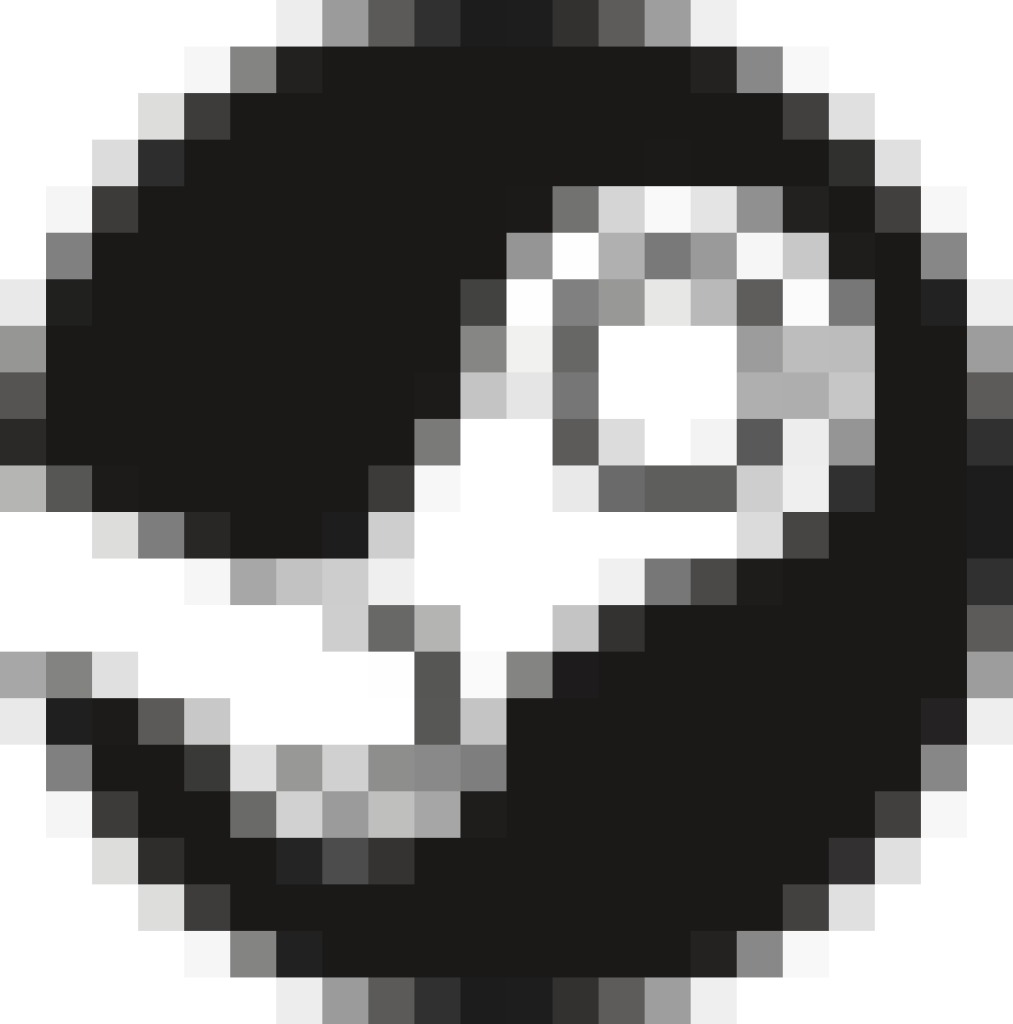
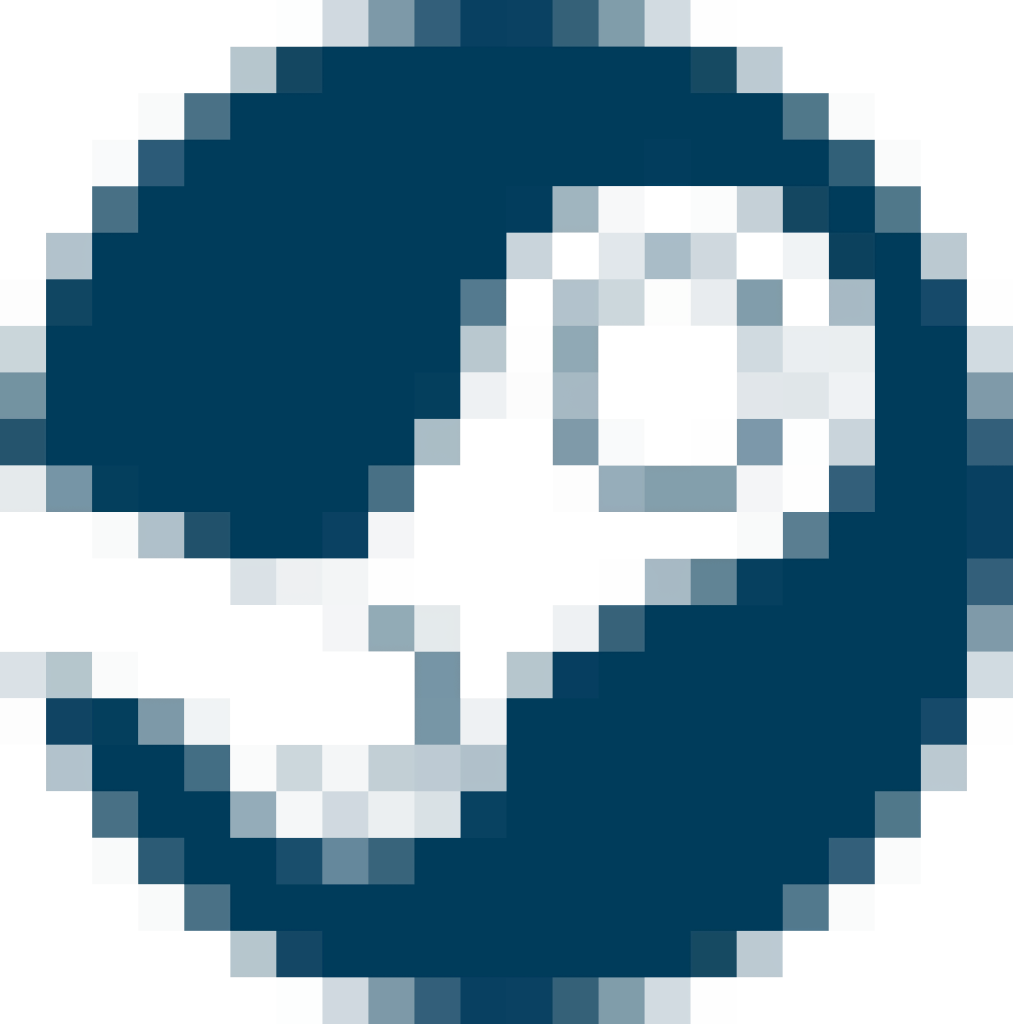
DarkMode fix + cmt

diff --git a/PriceChart/BoxPlot/price_chart_boxplot.js b/PriceChart/BoxPlot/price_chart_boxplot.js
@@ -1,6 +1,6 @@
 document.addEventListener('DOMContentLoaded', function () {
                     var chartConfig1 = {"chart": {"type": "boxplot", "style": {"fontFamily": "MyCustomFont"}}, "title": {"text": "Ph\u00e2n t\u00edch gi\u1ea3m gi\u00e1 t\u1ed1i \u0111a v\u00e0 t\u1ed1i thi\u1ec3u c\u1ee7a c\u00e1c c\u1eeda h\u00e0ng (L\u1ecbch s\u1eed)", "style": {"fontFamily": "MyCustomFont"}}, "xAxis": {"categories": ["GreenManGaming", "Humble Store", "Fanatical", "GOG"], "title": {"text": "C\u1eeda h\u00e0ng"}}, "yAxis": {"title": {"text": "Ph\u1ea7n tr\u0103m gi\u1ea3m gi\u00e1 (%)"}}, "tooltip": {"shared": true, "useHTML": true, "headerFormat": "<em>C\u1eeda h\u00e0ng: {point.key}</em><br/>"}, "series": [{"name": "Ph\u00e2n b\u1ed1 gi\u1ea3m gi\u00e1", "data": [[0, 0, 0, 50, 55], [0, 0, 0, 50, 55], [0, 0, 50, 50, 55], [0, 0, 0, 50, 50]], "tooltip": {"headerFormat": "<em>Ph\u00e2n b\u1ed1 gi\u1ea3m gi\u00e1 c\u1ee7a {point.key}</em><br/>"}}, {"name": "Outliers", "type": "scatter", "data": [], "marker": {"fillColor": "rgba(223, 83, 83, .5)", "lineWidth": 1, "lineColor": "rgba(223, 83, 83, 1)"}, "tooltip": {"pointFormat": "Gi\u00e1 tr\u1ecb ngo\u1ea1i l\u1ec7: {point.y}%<br/>"}}, {"name": "Trung b\u00ecnh l\u00fd thuy\u1ebft", "type": "scatter", "data": [[0, 23.5], [1, 23.571428571428573], [2, 26.2], [3, 25.0]], "marker": {"fillColor": "rgba(0, 100, 0, .5)", "lineWidth": 1, "lineColor": "rgba(0, 100, 0, 1)", "radius": 5}, "tooltip": {"pointFormat": "Trung b\u00ecnh l\u00fd thuy\u1ebft: {point.y:.2f}%<br/>"}}]};
-                    var chartConfig2 = {"chart": {"type": "boxplot", "style": {"fontFamily": "MyCustomFont"}}, "title": {"text": "D\u1ef1 \u0111o\u00e1n gi\u1ea3m gi\u00e1 t\u1ed1i \u0111a v\u00e0 t\u1ed1i thi\u1ec3u c\u1ee7a c\u00e1c c\u1eeda h\u00e0ng (12 th\u00e1ng t\u1edbi)", "style": {"fontFamily": "MyCustomFont"}}, "xAxis": {"categories": ["GreenManGaming", "Humble Store", "Fanatical", "GOG"], "title": {"text": "C\u1eeda h\u00e0ng"}}, "yAxis": {"title": {"text": "Ph\u1ea7n tr\u0103m gi\u1ea3m gi\u00e1 (%)"}}, "tooltip": {"shared": true, "useHTML": true, "headerFormat": "<em>C\u1eeda h\u00e0ng: {point.key}</em><br/>"}, "series": [{"name": "Ph\u00e2n b\u1ed1 gi\u1ea3m gi\u00e1", "data": [[3.34, 10.85, 34.94, 38.65, 46.73], [9.37, 16.91, 27.41, 29.77, 36.43], [3.9, 12.45, 36.9, 41.0, 50.27], [19.22, 25.69, 25.81, 26.01, 38.82]], "tooltip": {"headerFormat": "<em>Ph\u00e2n b\u1ed1 gi\u1ea3m gi\u00e1 c\u1ee7a {point.key}</em><br/>"}}, {"name": "Outliers", "type": "scatter", "data": [[3, 38.82], [3, 19.22], [3, 29.12], [3, 24.12], [3, 26.64]], "marker": {"fillColor": "rgba(223, 83, 83, .5)", "lineWidth": 1, "lineColor": "rgba(223, 83, 83, 1)"}, "tooltip": {"pointFormat": "Gi\u00e1 tr\u1ecb ngo\u1ea1i l\u1ec7: {point.y}%<br/>"}}, {"name": "Trung b\u00ecnh l\u00fd thuy\u1ebft", "type": "scatter", "data": [[0, 24.80666666666667], [1, 23.245833333333334], [2, 26.7975], [3, 26.517500000000002]], "marker": {"fillColor": "rgba(0, 100, 0, .5)", "lineWidth": 1, "lineColor": "rgba(0, 100, 0, 1)", "radius": 5}, "tooltip": {"pointFormat": "Trung b\u00ecnh l\u00fd thuy\u1ebft: {point.y:.2f}%<br/>"}}]};
+                    var chartConfig2 = {"chart": {"type": "boxplot", "style": {"fontFamily": "MyCustomFont"}}, "title": {"text": "D\u1ef1 \u0111o\u00e1n gi\u1ea3m gi\u00e1 t\u1ed1i \u0111a v\u00e0 t\u1ed1i thi\u1ec3u c\u1ee7a c\u00e1c c\u1eeda h\u00e0ng (12 th\u00e1ng t\u1edbi)", "style": {"fontFamily": "MyCustomFont"}}, "xAxis": {"categories": ["GreenManGaming", "Humble Store", "Fanatical", "GOG"], "title": {"text": "C\u1eeda h\u00e0ng"}}, "yAxis": {"title": {"text": "Ph\u1ea7n tr\u0103m gi\u1ea3m gi\u00e1 (%)"}}, "tooltip": {"shared": true, "useHTML": true, "headerFormat": "<em>C\u1eeda h\u00e0ng: {point.key}</em><br/>"}, "series": [{"name": "Ph\u00e2n b\u1ed1 gi\u1ea3m gi\u00e1", "data": [[3.34, 10.85, 34.94, 38.65, 46.73], [9.37, 16.91, 27.41, 29.77, 36.43], [3.9, 12.45, 36.9, 41.0, 50.27], [19.22, 25.69, 25.81, 26.01, 38.82]], "tooltip": {"headerFormat": "<em>Ph\u00e2n b\u1ed1 gi\u1ea3m gi\u00e1 c\u1ee7a {point.key}</em><br/>"}}, {"name": "Outliers", "type": "scatter", "data": [[3, 38.82], [3, 19.22], [3, 29.12], [3, 24.12], [3, 26.64]], "marker": {"fillColor": "rgba(223, 83, 83, .5)", "lineWidth": 1, "lineColor": "rgba(223, 83, 83, 1)"}, "tooltip": {"pointFormat": "Gi\u00e1 tr\u1ecb ngo\u1ea1i l\u1ec7: {point.y}%<br/>"}}, {"name": "Trung b\u00ecnh l\u00fd thuy\u1ebft", "type": "scatter", "data": [[0, 24.80666666666667], [1, 23.245833333333334], [2, 26.7975], [3, 26.5175]], "marker": {"fillColor": "rgba(0, 100, 0, .5)", "lineWidth": 1, "lineColor": "rgba(0, 100, 0, 1)", "radius": 5}, "tooltip": {"pointFormat": "Trung b\u00ecnh l\u00fd thuy\u1ebft: {point.y:.2f}%<br/>"}}]};
 
                     Highcharts.chart('container1', chartConfig1);
                     Highcharts.chart('container2', chartConfig2);

diff --git a/PriceChart/PieChart/price_chart_pie.js b/PriceChart/PieChart/price_chart_pie.js
@@ -1,6 +1,6 @@
 
 document.addEventListener('DOMContentLoaded', function () {
-    var chartConfig1 = {"chart": {"type": "pie", "style": {"fontFamily": "MyCustomFont"}}, "title": {"text": "T\u1ed5ng s\u1ed1 ti\u1ec1n ti\u1ebft ki\u1ec7m t\u1eeb gi\u1ea3m gi\u00e1 theo c\u1eeda h\u00e0ng (L\u1ecbch s\u1eed)", "style": {"fontFamily": "MyCustomFont"}}, "tooltip": {"pointFormat": "<b>{point.percentage:.1f}%</b> c\u1ee7a t\u1ed5ng s\u1ed1 ti\u1ec1n ti\u1ebft ki\u1ec7m"}, "plotOptions": {"pie": {"allowPointSelect": true, "cursor": "pointer", "dataLabels": {"enabled": true, "format": "<b>{point.name}</b>: {point.percentage:.1f} %"}, "showInLegend": true}}, "legend": {"align": "center", "verticalAlign": "bottom", "layout": "horizontal", "itemDistance": 50, "padding": 20, "itemStyle": {"fontSize": "14px", "fontWeight": "bold", "color": "black"}}, "series": [{"name": "T\u1ed5ng s\u1ed1 ti\u1ec1n ti\u1ebft ki\u1ec7m", "colorByPoint": true, "data": [{"name": "GreenManGaming", "y": 423.0}, {"name": "Humble Store", "y": 297.0}, {"name": "Fanatical", "y": 393.0}, {"name": "GOG", "y": 330.00000000000006}]}]};
+    var chartConfig1 = {"chart": {"type": "pie", "style": {"fontFamily": "MyCustomFont"}}, "title": {"text": "T\u1ed5ng s\u1ed1 ti\u1ec1n ti\u1ebft ki\u1ec7m t\u1eeb gi\u1ea3m gi\u00e1 theo c\u1eeda h\u00e0ng (L\u1ecbch s\u1eed)", "style": {"fontFamily": "MyCustomFont"}}, "tooltip": {"pointFormat": "<b>{point.percentage:.1f}%</b> c\u1ee7a t\u1ed5ng s\u1ed1 ti\u1ec1n ti\u1ebft ki\u1ec7m"}, "plotOptions": {"pie": {"allowPointSelect": true, "cursor": "pointer", "dataLabels": {"enabled": true, "format": "<b>{point.name}</b>: {point.percentage:.1f} %"}, "showInLegend": true}}, "legend": {"align": "center", "verticalAlign": "bottom", "layout": "horizontal", "itemDistance": 50, "padding": 20, "itemStyle": {"fontSize": "14px", "fontWeight": "bold", "color": "black"}}, "series": [{"name": "T\u1ed5ng s\u1ed1 ti\u1ec1n ti\u1ebft ki\u1ec7m", "colorByPoint": true, "data": [{"name": "GreenManGaming", "y": 423.00000000000006}, {"name": "Humble Store", "y": 297.0}, {"name": "Fanatical", "y": 393.00000000000006}, {"name": "GOG", "y": 330.00000000000006}]}]};
     var chartConfig2 = {"chart": {"type": "pie", "style": {"fontFamily": "MyCustomFont"}}, "title": {"text": "D\u1ef1 \u0111o\u00e1n t\u1ed5ng s\u1ed1 ti\u1ec1n ti\u1ebft ki\u1ec7m t\u1eeb gi\u1ea3m gi\u00e1 theo c\u1eeda h\u00e0ng (4 th\u00e1ng ti\u1ebfp theo)", "style": {"fontFamily": "MyCustomFont"}}, "tooltip": {"pointFormat": "<b>{point.percentage:.1f}%</b> c\u1ee7a t\u1ed5ng s\u1ed1 ti\u1ec1n ti\u1ebft ki\u1ec7m"}, "plotOptions": {"pie": {"allowPointSelect": true, "cursor": "pointer", "dataLabels": {"enabled": true, "format": "<b>{point.name}</b>: {point.percentage:.1f} %"}, "showInLegend": true}}, "legend": {"align": "center", "verticalAlign": "bottom", "layout": "horizontal", "itemDistance": 50, "padding": 20, "itemStyle": {"fontSize": "14px", "fontWeight": "bold", "color": "black"}}, "series": [{"name": "T\u1ed5ng s\u1ed1 ti\u1ec1n ti\u1ebft ki\u1ec7m", "colorByPoint": true, "data": [{"name": "GreenManGaming", "y": 151.56}, {"name": "Humble Store", "y": 131.98}, {"name": "Fanatical", "y": 143.62}, {"name": "GOG", "y": 169.29}]}]};
 
     Highcharts.chart('container1', chartConfig1);

diff --git a/playersCharts/playersCount.js b/playersCharts/playersCount.js
@@ -17,9 +17,9 @@ async function loadDataset() {
 }
 
 function unixToDateString(unixTimestamp) {
-    const date = new Date(unixTimestamp * 1000); // Multiply by 1000 to convert seconds to milliseconds
+    const date = new Date(unixTimestamp * 1000); // convert seconds to milliseconds
     const year = date.getFullYear();
-    const month = String(date.getMonth() + 1).padStart(2, '0'); // Months are zero-indexed
+    const month = String(date.getMonth() + 1).padStart(2, '0'); 
     const day = String(date.getDate()).padStart(2, '0');
     const hours = String(date.getHours()).padStart(2, '0');
     const minutes = String(date.getMinutes()).padStart(2, '0');

diff --git a/playersCharts/playersCount.css b/playersCharts/playersCount.css
@@ -1,7 +1,7 @@
 
 @font-face {
     font-family: "MyCustomFont";
-    src: url("../FVF_Fernando_08.ttf") format("truetype"); /* Adjust the path if needed */
+    src: url("../FVF_Fernando_08.ttf") format("truetype"); 
     font-weight: normal;
     font-style: normal;
 }
@@ -14,7 +14,7 @@
     font-size: 20px;
 }
 body{
-    font-family: "MyCustomFont", sans-serif; /* Fallback to sans-serif */
+    font-family: "MyCustomFont", sans-serif; 
 }
 
 ::-webkit-scrollbar {

diff --git a/mapWorld/function2.js b/mapWorld/function2.js
@@ -40,10 +40,10 @@
             },
 
             data: {
-            csv: csvData, // Sử dụng dữ liệu từ file CSV
+            csv: csvData, 
             seriesMapping: [{
-                code: 1,   // Giả sử mã quốc gia nằm ở cột thứ hai
-                value: 2   // Giả sử số lượng người dùng nằm ở cột thứ ba
+                code: 1,   
+                value: 2   
             }]
             },
 

diff --git a/mapWorld/function3.js b/mapWorld/function3.js
@@ -49,8 +49,8 @@
             data: {
                 csv: csvData, // Sử dụng dữ liệu tệp CSV cục bộ
                 seriesMapping: [{
-                    code: 1,   // Giả sử mã quốc gia nằm ở cột thứ hai
-                    value: 2   // Giả sử số lượng người dùng nằm ở cột thứ ba
+                    code: 1,   
+                    value: 2  
                 }]
             },
 

diff --git a/barRaceCharts/bar_race.css b/barRaceCharts/bar_race.css
@@ -2,13 +2,12 @@
 
 @font-face {
     font-family: "MyCustomFont";
-    src: url("../FVF_Fernando_08.ttf") format("truetype"); /* Adjust the path if needed */
-    font-weight: normal;
+    src: url("../FVF_Fernando_08.ttf") format("truetype"); 
     font-style: normal;
 }
 
 body{
-    font-family: "MyCustomFont", sans-serif; /* Fallback to sans-serif */
+    font-family: "MyCustomFont", sans-serif; 
 }
 
 .highcharts-figure {

diff --git a/playersCharts/ERROR.css b/playersCharts/ERROR.css
@@ -1,4 +1,4 @@
-/* Reset some basic styles */
+
 * {
     margin: 0;
     padding: 0;
@@ -6,7 +6,7 @@
 }
 @font-face {
     font-family: "MyCustomFont";
-    src: url("../FVF_Fernando_08.ttf") format("truetype"); /* Adjust the path if needed */
+    src: url("../FVF_Fernando_08.ttf") format("truetype");
     font-weight: normal;
     font-style: normal;
 }

diff --git a/mapWorld/tab.js b/mapWorld/tab.js
@@ -1,9 +1,9 @@
 function openTab(evt, tabName) {
-    // Hide all tab content
+    
     const allTabs = document.querySelectorAll(".tab-content");
     allTabs.forEach(tab => tab.classList.remove("active"));
 
-    // Show the clicked tab's content
+    
     const activeTab = document.getElementById(tabName);
     activeTab.classList.add("active");
 

diff --git a/main.py b/main.py
@@ -1,7 +1,7 @@
 from io import BytesIO
 import os
 import sys
-from PyQt6.QtGui import QPixmap, QFontDatabase, QFont, QShortcut, QKeySequence
+from PyQt6.QtGui import QPixmap, QFontDatabase, QFont, QShortcut, QKeySequence,QPalette
 from PyQt6 import uic
 from PyQt6.QtWidgets import (
     QApplication,
@@ -33,6 +33,9 @@ app_icon.addFile("image/icon.png", QSize(256, 256))
 
 app.setWindowIcon(app_icon)
 app.setStyle("fusion")
+
+palette = app.palette()
+is_dark_mode = palette.color(QPalette.ColorRole.Window).value() < 128
 
 font_id = QFontDatabase.addApplicationFont("FVF_Fernando_08.ttf")
 font_family = QFontDatabase.applicationFontFamilies(font_id)[0]
@@ -761,8 +764,9 @@ class MainStage(QMainWindow):
         ]
         objects = [getattr(self, name) for name in chartRace_names]
         fixed_pixelfont(objects, 8)
-        self.setWindowTitle("App")
+        self.setWindowTitle("ValvesPalTest")
         self.setGeometry(150, 60, 1280, 720)
+        self.setFixedSize(1280, 720)
 
         self.create_loading_screen()
 
@@ -837,7 +841,7 @@ class MainStage(QMainWindow):
             game_name.setFixedHeight(100)
             game_name.setFixedWidth(300)
             game_name.setEnabled(False)
-            game_name.setStyleSheet("background-color: rgba(0, 0, 0, 0);")
+            game_name.setStyleSheet("color: black;background-color: rgba(0, 0, 0, 0);")
 
             curentPrice = QLabel("Giá Hiện tại: " + str(item.deal.price.amount) + " $")
             curentPrice.setFont(pixelfont)
@@ -846,7 +850,7 @@ class MainStage(QMainWindow):
             )
             curentPrice.setMinimumHeight(90)
             curentPrice.setEnabled(False)
-            curentPrice.setStyleSheet("background-color: rgba(0, 0, 0, 0);")
+            curentPrice.setStyleSheet("color: black;background-color: rgba(0, 0, 0, 0);")
 
             basePrice = QLabel("Giá Gốc: " + str(item.deal.regular.amount) + " $")
             basePrice.setFont(pixelfont)
@@ -855,7 +859,7 @@ class MainStage(QMainWindow):
             )
             basePrice.setMinimumHeight(90)
             basePrice.setEnabled(False)
-            basePrice.setStyleSheet("background-color: rgba(0, 0, 0, 0);")
+            basePrice.setStyleSheet("color: black;background-color: rgba(0, 0, 0, 0);")
 
             sale = QLabel(
                 "Giảm: "
@@ -868,7 +872,7 @@ class MainStage(QMainWindow):
             sale.setSizePolicy(QSizePolicy.Policy.Expanding, QSizePolicy.Policy.Fixed)
             sale.setMinimumHeight(90)
             sale.setEnabled(False)
-            sale.setStyleSheet("background-color: rgba(0, 0, 0, 0);")
+            sale.setStyleSheet("color: black;background-color: rgba(0, 0, 0, 0);")
 
             text_layout.addWidget(game_name)
             text_layout.addWidget(curentPrice)

diff --git a/playersCharts/playersCountPrediction.py b/playersCharts/playersCountPrediction.py
@@ -8,27 +8,23 @@ def getPredictions(df):
     df = df.sort_values(by="Month", ascending=True)
     print(df)
 
-    # Chuyển đổi Unix milliseconds sang datetime (chia cho 1000 để chuyển đổi sang giây)
+    # chuyển đổi Unix milliseconds sang datetime (chia cho 1000 để chuyển đổi sang giây)
     df["Month"] = pd.to_datetime(df["Month"], unit="ms")
-
-    # Đặt Month làm index
     df.set_index("Month", inplace=True)
-
-    # Lấy độ dài của df
     length = int(df.shape[0] / 3)
-    # Đặt tần suất (hàng tháng)
+ 
     df = df.asfreq("M", method="ffill")
     print(df)
     # SARIMAX
     model = SARIMAX(df["Peak Players"], order=(1, 1, 1), seasonal_order=(0, 0, 0, 0))
 
-    # Nếu df có ít hơn 24 tháng, sử dụng mô hình SARIMAX với chu kì là 6 tháng
+    # Nếu df có ít hơn 24 tháng,sử dụng mô hình SARIMAX với chu kì là 6 tháng
     if df.shape[0] <= 24 and df.shape[0] >= 12:
         model = SARIMAX(
             df["Peak Players"], order=(1, 1, 1), seasonal_order=(1, 1, 1, 6)
         )
 
-    # Nếu df có ít nhất 24 tháng, sử dụng mô hình SARIMAX với chu kì là 12 tháng
+    # Nếu df có ít nhất 24 tháng,sử dụng mô hình SARIMAX với chu kì là 12 tháng
     if df.shape[0] >= 24:
         model = SARIMAX(
             df["Peak Players"], order=(1, 1, 1), seasonal_order=(1, 1, 1, 12)
@@ -39,21 +35,19 @@ def getPredictions(df):
     # Dự đoán
     forecast = result.get_forecast(steps=length)
 
-    # Lấy các giá trị dự báo (giá trị trung bình dự đoán)
+    # lấy các giá trị dự báo (giá trị trung bình dự đoán)
     forecast_values = forecast.predicted_mean
-
-    # Tạo index cho khoảng thời gian dự báo (Months)
+    # tạo index cho khoảng thời gian dự báo (Months)
     forecast_index = pd.date_range(start=df.index[-1], periods=length + 1, freq="M")[
         1:
     ]  # Bắt đầu sau giá trị cuối cùng đã biết
 
     # Chuyển đổi các tháng dự báo sang Unix milliseconds
     forecast_unix_ms = forecast_index.astype("int64") // 10**6
-    # Tạo DataFrame với các giá trị dự báo và các tháng tương ứng
+    # tạo DataFrame với các giá trị dự báo và các tháng tương ứng
     forecast_df = pd.DataFrame(
         {"Month": forecast_unix_ms, "Peak Players": forecast_values}
     )
-
     # Chuyển đổi cột 'Month' sang kiểu số nguyên (Unix milliseconds nên đã ở dạng số nguyên)
     forecast_df["Month"] = forecast_df["Month"].astype("int64")
 

diff --git a/playersCharts/getPlayers_GameChart.py b/playersCharts/getPlayers_GameChart.py
@@ -12,7 +12,7 @@ def getPlayersData(id) -> pd.DataFrame:
         response = requests.get(url)
         soup = BeautifulSoup(response.text, "html.parser")
 
-        # Find the table and extract data
+       
         table = soup.find("table", class_="common-table")
         rows = table.find_all("tr")
 
@@ -22,14 +22,14 @@ def getPlayersData(id) -> pd.DataFrame:
             cells = row.find_all("td")
 
             if cells:
-                # Clean up the text by stripping whitespace and unwanted characters
+                #  Dọn văn bản bằng cách loại bỏ khoảng trắng và các ký tự ko cần thiết,..
                 month = cells[0].text.strip().replace("\n", "").replace("\t", "")
                 avg_players = cells[1].text.strip().replace("\n", "").replace("\t", "")
                 gain = cells[2].text.strip().replace("\n", "").replace("\t", "")
                 percent_gain = cells[3].text.strip().replace("\n", "").replace("\t", "")
                 peak_players = cells[4].text.strip().replace("\n", "").replace("\t", "")
 
-                # Handle missing values or empty fields
+                # Xử lý dữ liệu bị trống, rỗng ..
                 if avg_players == "-":
                     avg_players = None
                 if gain == "-":
@@ -42,7 +42,7 @@ def getPlayersData(id) -> pd.DataFrame:
                 # Add data to the list
                 data.append([month, avg_players, gain, percent_gain, peak_players])
 
-        # Convert the list into a DataFrame
+        # Convert list sang dataframe
         df = pd.DataFrame(
             data, columns=["Month", "Avg. Players", "Gain", "% Gain", "Peak Players"]
         )
